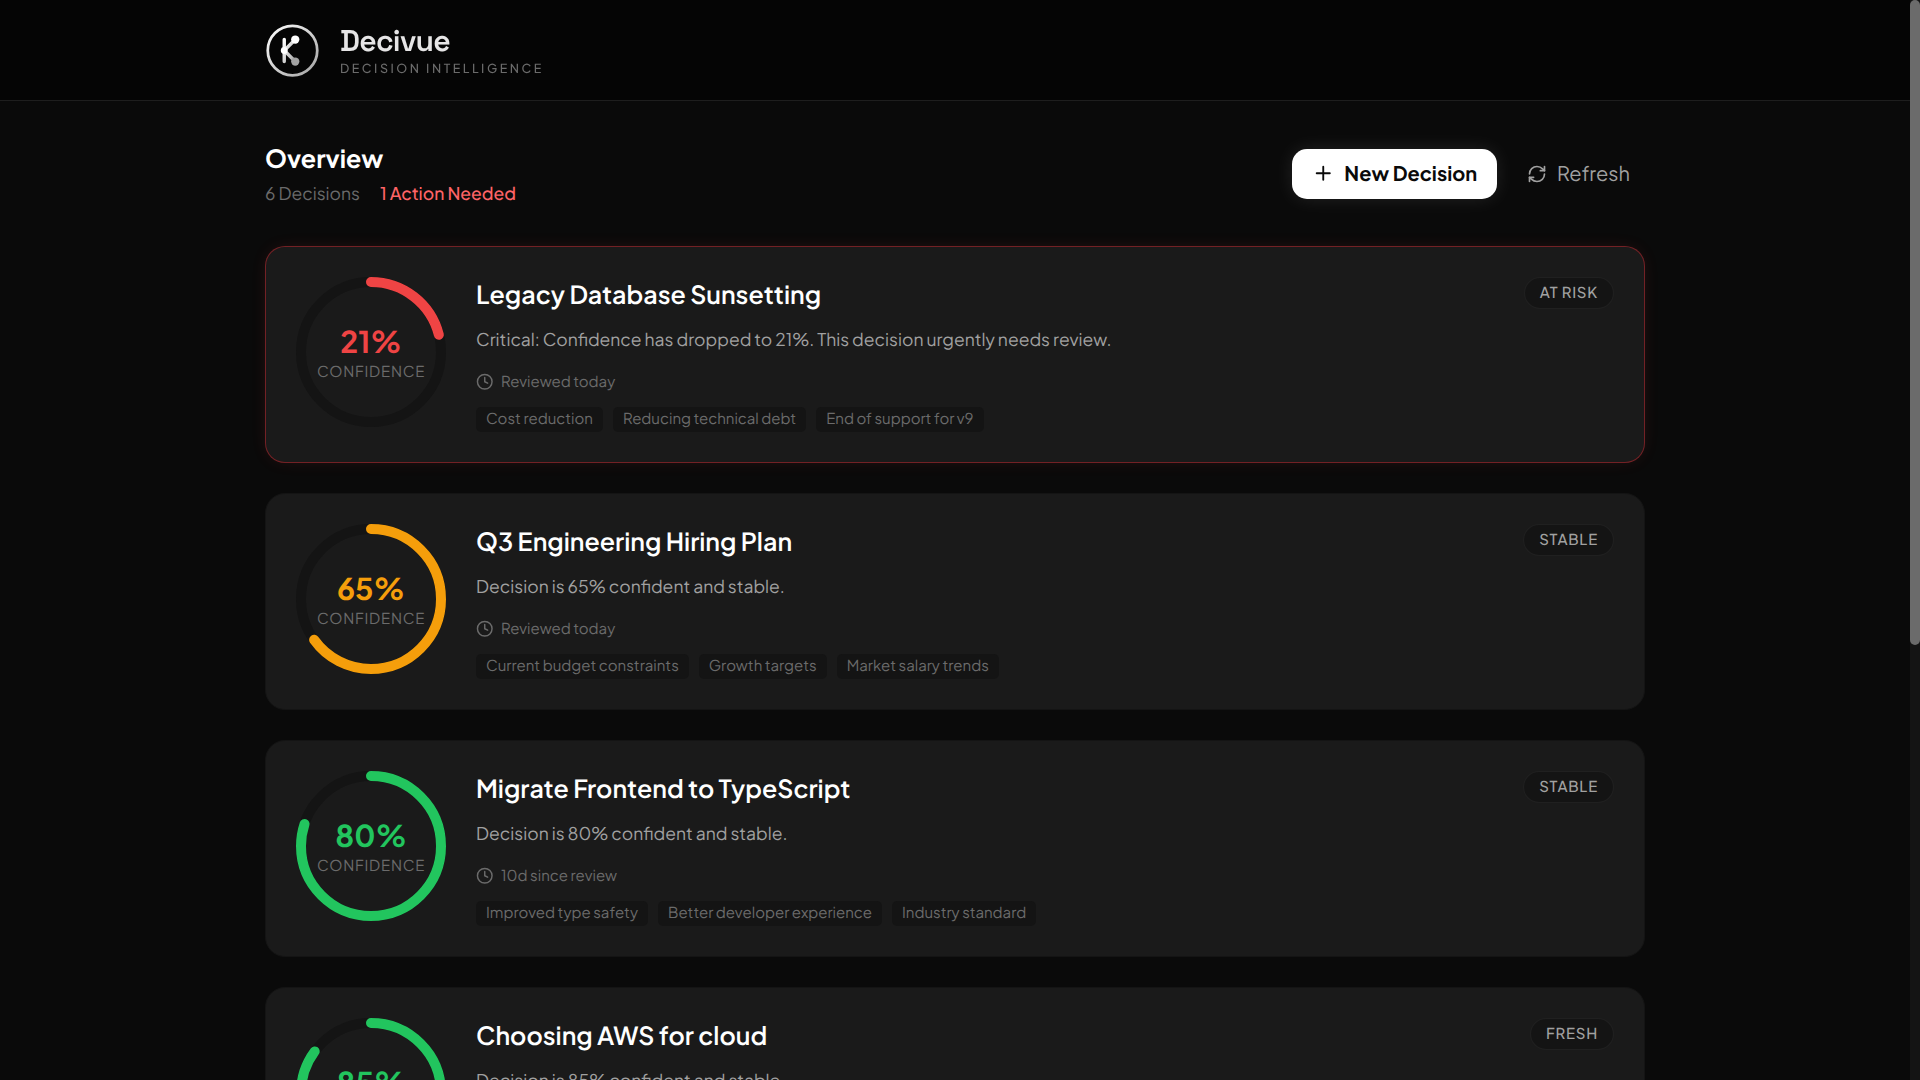
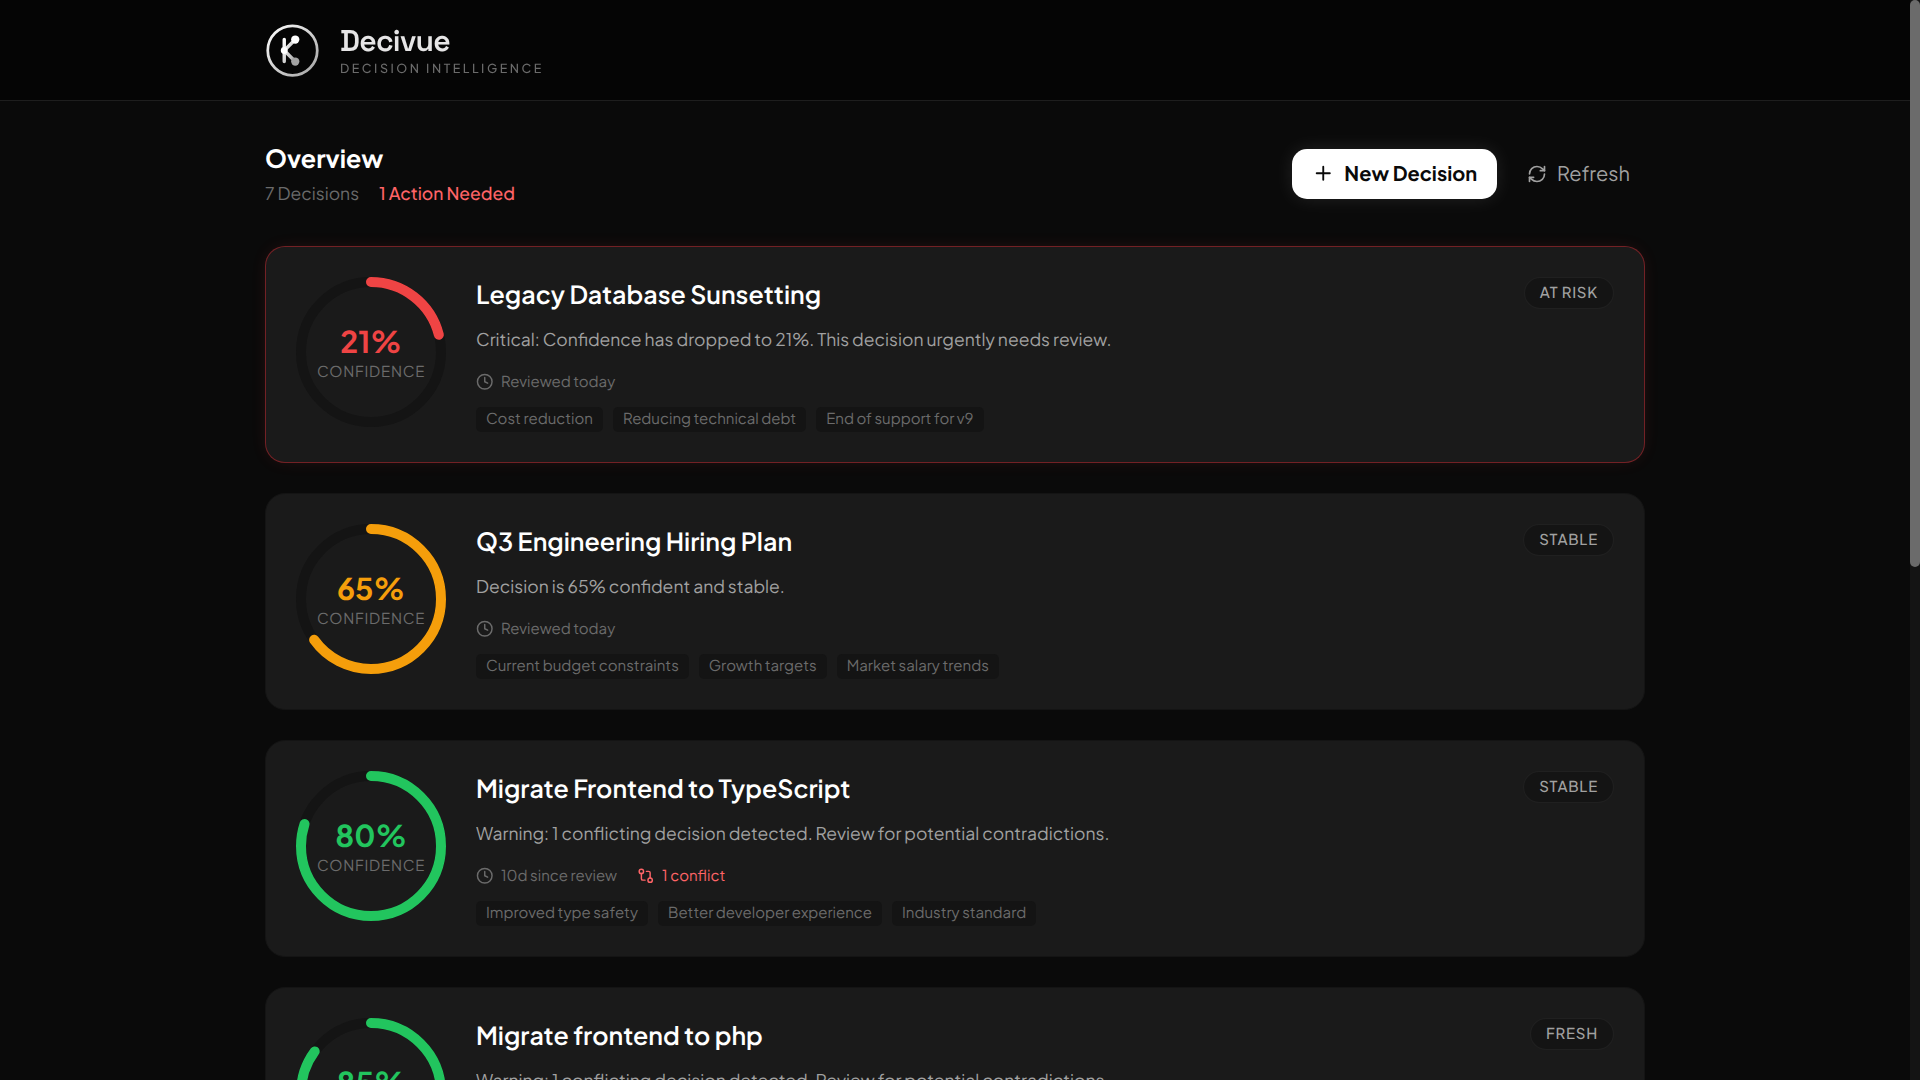
feat: update README with additional screenshots and remove outdated mobile screenshots

diff --git a/README.md b/README.md
@@ -129,10 +129,12 @@ Users can **Reaffirm** a decision to reset the decay timer, **Revise** to update
 
 ## Screenshots
 
-| Dashboard | Decision Detail |
-|-----------|-----------------|
-| ![Dashboard](docs/screenshots/dashboard.png) | ![Detail](docs/screenshots/detail.png) |
 
+![Dashboard](docs/screenshots/dashboard.png)  
+![Detail](docs/screenshots/detail.png) <hr> <br>
+![Modal1](docs/screenshots/modal1.png)
+![Modal2](docs/screenshots/modal2.png)
+![Modal3](docs/screenshots/modal3.png)
 
 ---
 
